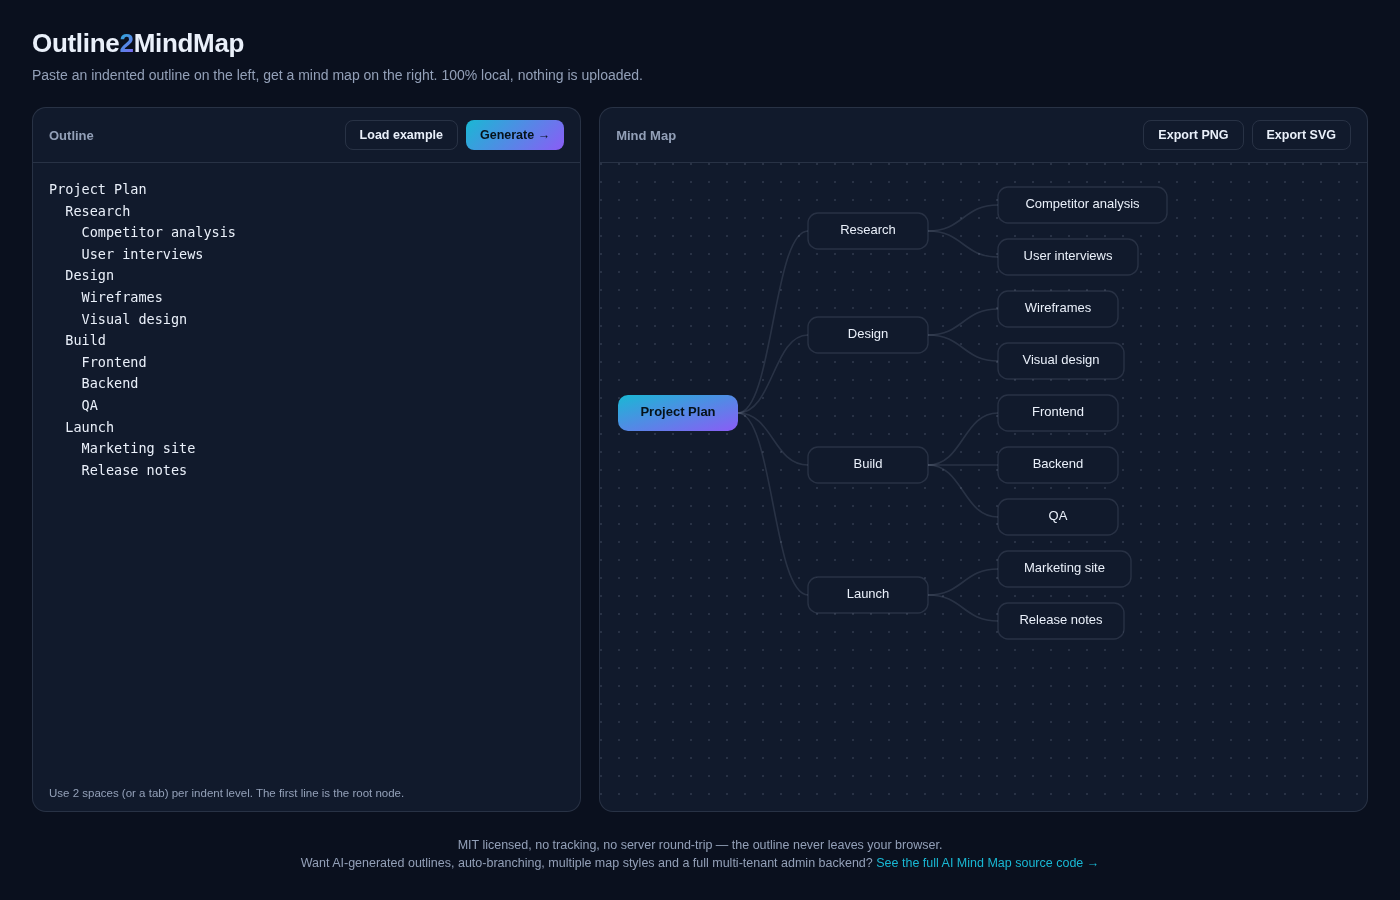
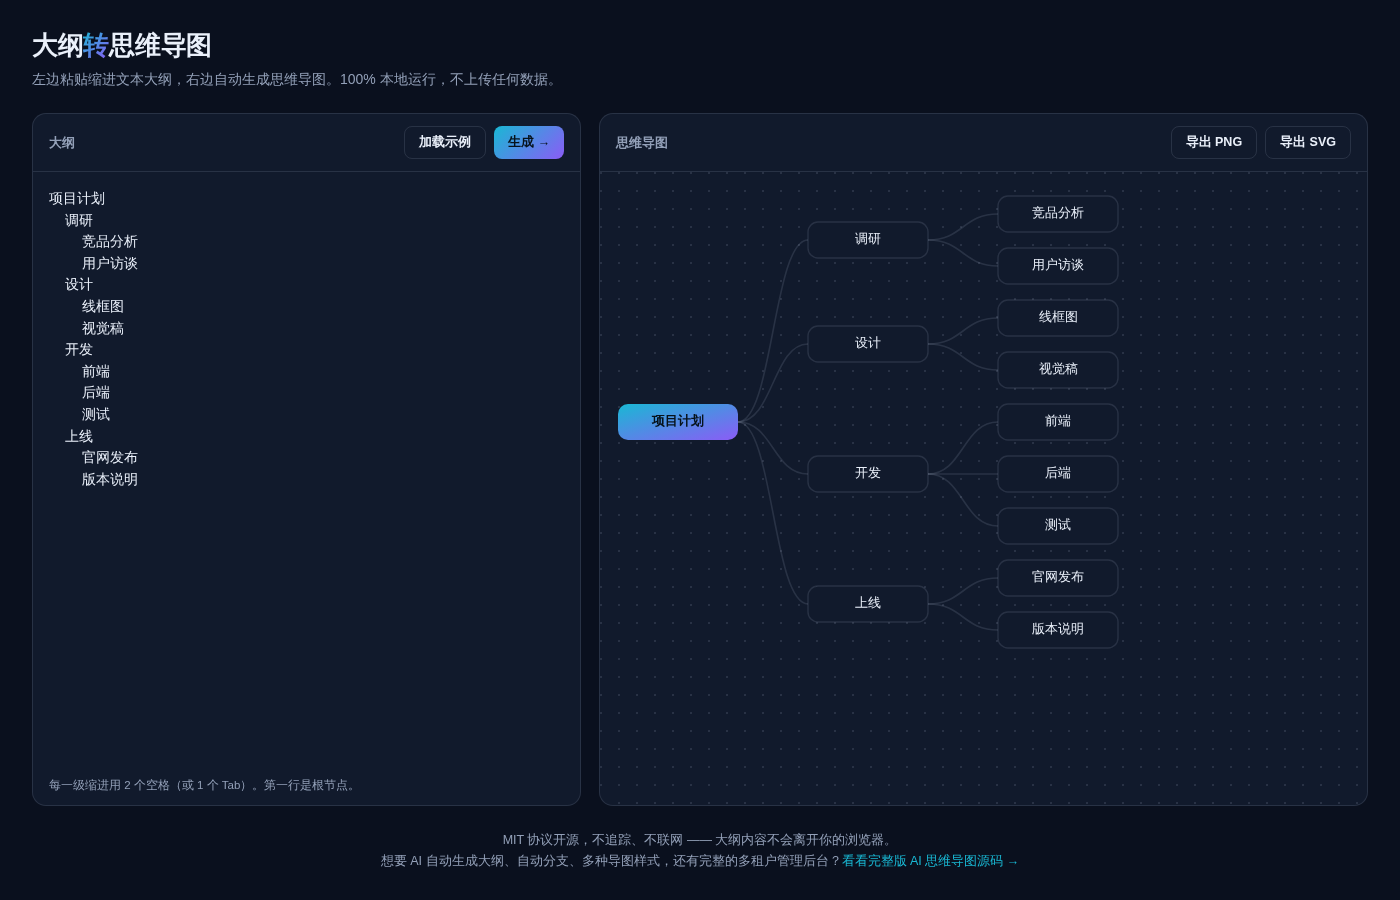
Translate UI and README to Chinese, fix CJK text width measurement

diff --git a/index.html b/index.html
@@ -1,47 +1,47 @@
 <!DOCTYPE html>
-<html lang="en">
+<html lang="zh-CN">
 <head>
 <meta charset="UTF-8">
 <meta name="viewport" content="width=device-width, initial-scale=1.0">
-<title>Outline2MindMap — turn indented text into a mind map</title>
-<meta name="description" content="Free, open-source, browser-only tool that converts an indented text outline into a visual mind map. No install, no backend, no data leaves your browser.">
+<title>大纲转思维导图 · Outline2MindMap</title>
+<meta name="description" content="免费开源、纯浏览器运行的小工具，把缩进文本大纲一键转换成可视化思维导图。不用安装、不用注册、不联网，数据不会离开你的浏览器。">
 <link rel="stylesheet" href="style.css">
 </head>
 <body>
   <header class="topbar">
-    <h1>Outline<span class="accent">2</span>MindMap</h1>
-    <p class="tagline">Paste an indented outline on the left, get a mind map on the right. 100% local, nothing is uploaded.</p>
+    <h1>大纲<span class="accent">转</span>思维导图</h1>
+    <p class="tagline">左边粘贴缩进文本大纲，右边自动生成思维导图。100% 本地运行，不上传任何数据。</p>
   </header>
 
   <main class="layout">
     <section class="panel panel-input">
       <div class="panel-head">
-        <span>Outline</span>
+        <span>大纲</span>
         <div class="btns">
-          <button id="btnExample" class="btn btn-ghost">Load example</button>
-          <button id="btnGenerate" class="btn btn-primary">Generate →</button>
+          <button id="btnExample" class="btn btn-ghost">加载示例</button>
+          <button id="btnGenerate" class="btn btn-primary">生成 →</button>
         </div>
       </div>
-      <textarea id="outlineInput" spellcheck="false" placeholder="Project Plan
-  Research
-    Competitor analysis
-    User interviews
-  Design
-    Wireframes
-    Visual design
-  Build
-    Frontend
-    Backend
-  Launch"></textarea>
-      <p class="hint">Use 2 spaces (or a tab) per indent level. The first line is the root node.</p>
+      <textarea id="outlineInput" spellcheck="false" placeholder="项目计划
+  调研
+    竞品分析
+    用户访谈
+  设计
+    线框图
+    视觉稿
+  开发
+    前端
+    后端
+  上线"></textarea>
+      <p class="hint">每一级缩进用 2 个空格（或 1 个 Tab）。第一行是根节点。</p>
     </section>
 
     <section class="panel panel-output">
       <div class="panel-head">
-        <span>Mind Map</span>
+        <span>思维导图</span>
         <div class="btns">
-          <button id="btnPNG" class="btn btn-ghost">Export PNG</button>
-          <button id="btnSVG" class="btn btn-ghost">Export SVG</button>
+          <button id="btnPNG" class="btn btn-ghost">导出 PNG</button>
+          <button id="btnSVG" class="btn btn-ghost">导出 SVG</button>
         </div>
       </div>
       <div id="canvasWrap" class="canvas-wrap">
@@ -51,8 +51,8 @@
   </main>
 
   <footer class="footer">
-    <p>MIT licensed, no tracking, no server round-trip — the outline never leaves your browser.</p>
-    <p>Want AI-generated outlines, auto-branching, multiple map styles and a full multi-tenant admin backend? <a href="https://inzyxuashop.com/aisiweidaotu-yuanma.html" target="_blank" rel="noopener">See the full AI Mind Map source code →</a></p>
+    <p>MIT 协议开源，不追踪、不联网 —— 大纲内容不会离开你的浏览器。</p>
+    <p>想要 AI 自动生成大纲、自动分支、多种导图样式，还有完整的多租户管理后台？<a href="https://inzyxuashop.com/aisiweidaotu-yuanma.html" target="_blank" rel="noopener">看看完整版 AI 思维导图源码 →</a></p>
   </footer>
 
   <script src="script.js"></script>

diff --git a/script.js b/script.js
@@ -2,20 +2,20 @@
   'use strict';
 
   var EXAMPLE = [
-    'Project Plan',
-    '  Research',
-    '    Competitor analysis',
-    '    User interviews',
-    '  Design',
-    '    Wireframes',
-    '    Visual design',
-    '  Build',
-    '    Frontend',
-    '    Backend',
-    '    QA',
-    '  Launch',
-    '    Marketing site',
-    '    Release notes',
+    '项目计划',
+    '  调研',
+    '    竞品分析',
+    '    用户访谈',
+    '  设计',
+    '    线框图',
+    '    视觉稿',
+    '  开发',
+    '    前端',
+    '    后端',
+    '    测试',
+    '  上线',
+    '    官网发布',
+    '    版本说明',
   ].join('\n');
 
   var input = document.getElementById('outlineInput');
@@ -27,8 +27,10 @@
   var V_GAP = 16;
   var PAD_X = 18;
   var PAD_Y = 24;
-  var CHAR_W = 7.2;
   var MIN_NODE_W = 120;
+  var FONT = '13px -apple-system,BlinkMacSystemFont,"Segoe UI",Roboto,Helvetica,Arial,"PingFang SC","Microsoft YaHei",sans-serif';
+  var measureCtx = document.createElement('canvas').getContext('2d');
+  measureCtx.font = FONT;
 
   function indentLevel(line) {
     var m = line.match(/^[ \t]*/)[0];
@@ -59,7 +61,8 @@
   }
 
   function nodeWidth(text) {
-    return Math.max(MIN_NODE_W, Math.round(text.length * CHAR_W) + 32);
+    var measured = measureCtx.measureText(text).width;
+    return Math.max(MIN_NODE_W, Math.round(measured) + 32);
   }
 
   function layout(root) {
@@ -167,7 +170,7 @@
     style.textContent = [
       '.node rect{fill:#111a2c;stroke:rgba(147,160,184,.35);stroke-width:1.4}',
       '.node.root rect{fill:url(#rootGrad);stroke:none}',
-      '.node text{fill:#EAF0FA;font-size:13px;font-family:sans-serif;dominant-baseline:middle}',
+      '.node text{fill:#EAF0FA;font-size:13px;font-family:-apple-system,"PingFang SC","Microsoft YaHei",sans-serif;dominant-baseline:middle}',
       '.node.root text{fill:#06121A;font-weight:700}',
       '.link{fill:none;stroke:rgba(147,160,184,.35);stroke-width:1.6}',
     ].join('\n');

diff --git a/style.css b/style.css
@@ -12,7 +12,7 @@
 *{box-sizing:border-box}
 body{
   margin:0;background:var(--ink);color:var(--text);
-  font-family:-apple-system,BlinkMacSystemFont,"Segoe UI",Roboto,Helvetica,Arial,sans-serif;
+  font-family:-apple-system,BlinkMacSystemFont,"Segoe UI",Roboto,Helvetica,Arial,"PingFang SC","Microsoft YaHei",sans-serif;
   display:flex;flex-direction:column;min-height:100vh;
 }
 .topbar{padding:28px 32px 8px}

diff --git a/README.md b/README.md
@@ -1,46 +1,46 @@
-# Outline2MindMap
+# 大纲转思维导图 · Outline2MindMap
 
-**[Live demo →](https://anna123123123-creator.github.io/outline2mindmap/)**
+**[在线体验 →](https://anna123123123-creator.github.io/outline2mindmap/)**
 
-A tiny, free, browser-only tool that turns an indented text outline into a visual mind map — export as PNG or SVG. No install, no account, no backend, no analytics. The outline text never leaves your browser.
+一个免费、开源、纯浏览器运行的小工具：把缩进文本大纲一键转换成可视化思维导图，支持导出 PNG / SVG。不用安装、不用注册、不需要后端、不做任何数据统计——大纲内容不会离开你的浏览器。
 
 ![screenshot](screenshot.png)
 
-## Why
+## 为什么做这个
 
-Most mind-map tools want an account, a cloud save, or a subscription just to draw boxes and lines. Sometimes you just have an outline (or can write one in 30 seconds) and want a clean diagram out of it. This is that tool.
+大部分思维导图工具都要注册账号、要云端保存、甚至要订阅才能画几个方框连几条线。但很多时候你手上就是一份大纲（或者30秒就能写出一份），只想要一张干净的导图。这个工具就是干这个的。
 
-## Try it
+## 试用方法
 
-Open `index.html` in any modern browser — no build step, no dependencies. Or serve the folder with any static file server:
+直接用浏览器打开 `index.html`，不需要构建、不需要装依赖。或者用任意静态文件服务器跑起来：
 
 ```bash
 python3 -m http.server 8000
-# then open http://localhost:8000
+# 然后打开 http://localhost:8000
 ```
 
-## Usage
+## 使用说明
 
-1. Type or paste an outline in the left panel. Indent with 2 spaces (or a tab) per level:
+1. 在左边输入或粘贴一份大纲，每一级用 2 个空格（或 1 个 Tab）缩进：
    ```
-   Project Plan
-     Research
-       Competitor analysis
-       User interviews
-     Design
-       Wireframes
+   项目计划
+     调研
+       竞品分析
+       用户访谈
+     设计
+       线框图
    ```
-2. Click **Generate** (or just start typing — the example loads automatically on first open).
-3. Click **Export PNG** or **Export SVG** to save the diagram.
+2. 点击**生成**（第一次打开会自动加载示例）。
+3. 点击**导出 PNG** 或**导出 SVG** 保存导图。
 
-## How it works
+## 实现原理
 
-Plain-text outline → tree structure → a simple left-to-right tree layout, computed and rendered directly as inline SVG. No canvas libraries, no charting dependencies — about 200 lines of vanilla JavaScript in `script.js`.
+纯文本大纲 → 解析成树结构 → 简单的从左到右树形布局算法，直接计算坐标并渲染成内联 SVG。没有用任何画图库或图表依赖，`script.js` 里大概 200 行原生 JavaScript。
 
-## License
+## 协议
 
-MIT — do whatever you want with it.
+MIT，随便怎么用都行。
 
-## Related
+## 相关项目
 
-This started as a companion tool while building a full **AI-powered** mind-map product (AI-generated outlines from a single prompt, automatic branching, multiple map styles, multi-tenant admin backend, member/credit system). If you need that instead of a manual outline-to-diagram tool, the full source code is here: [AI Mind Map source code](https://inzyxuashop.com/aisiweidaotu-yuanma.html).
+这个工具是做一款完整的 **AI 思维导图**产品时顺手做的配套小工具——完整版支持一句话 AI 生成大纲、自动分支、多种导图样式、完整的多租户管理后台和会员算力体系。如果你需要的是这些而不是手动画图的小工具，完整源码在这：[AI 思维导图网站源码](https://inzyxuashop.com/aisiweidaotu-yuanma.html)。
